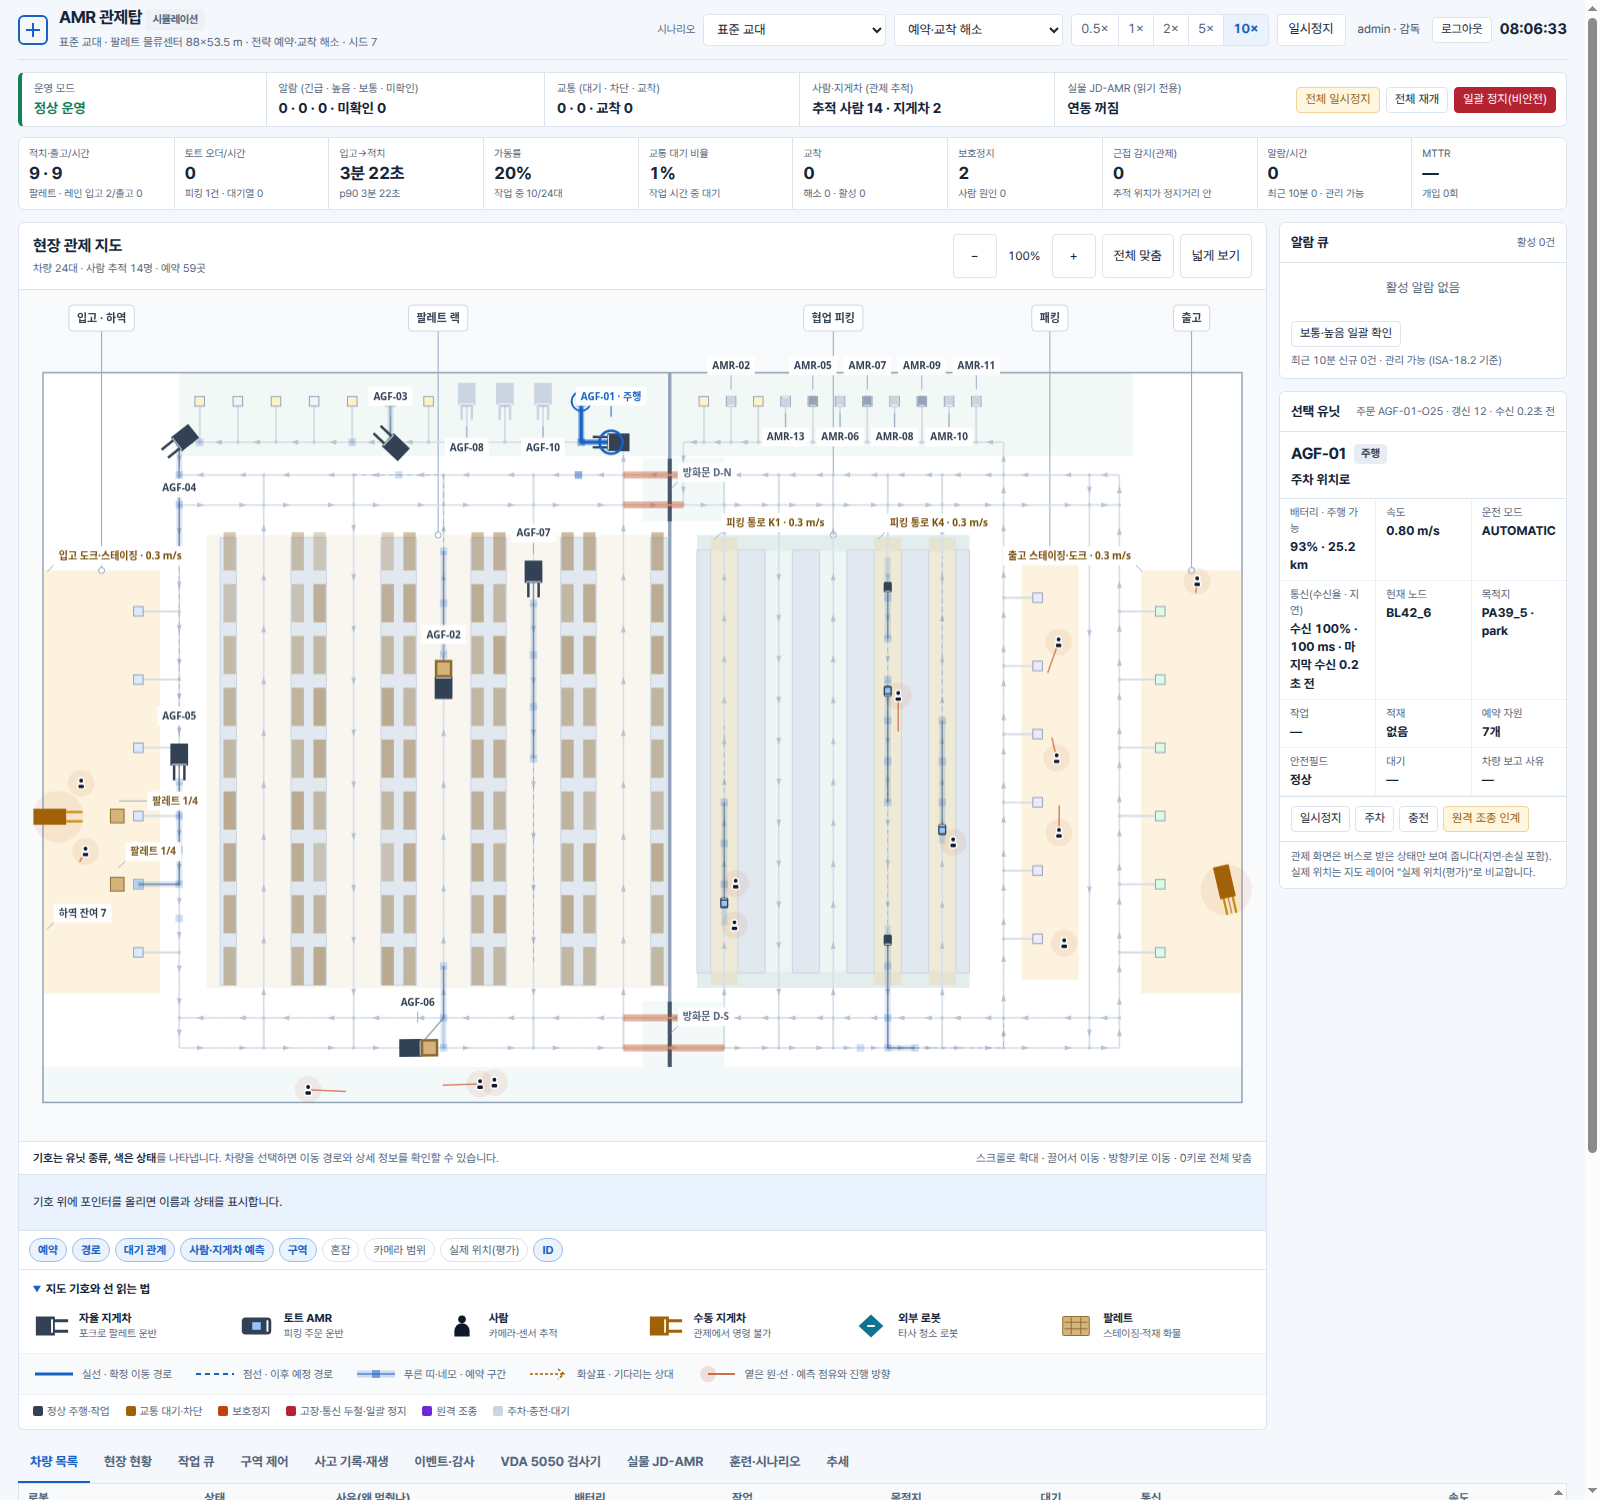
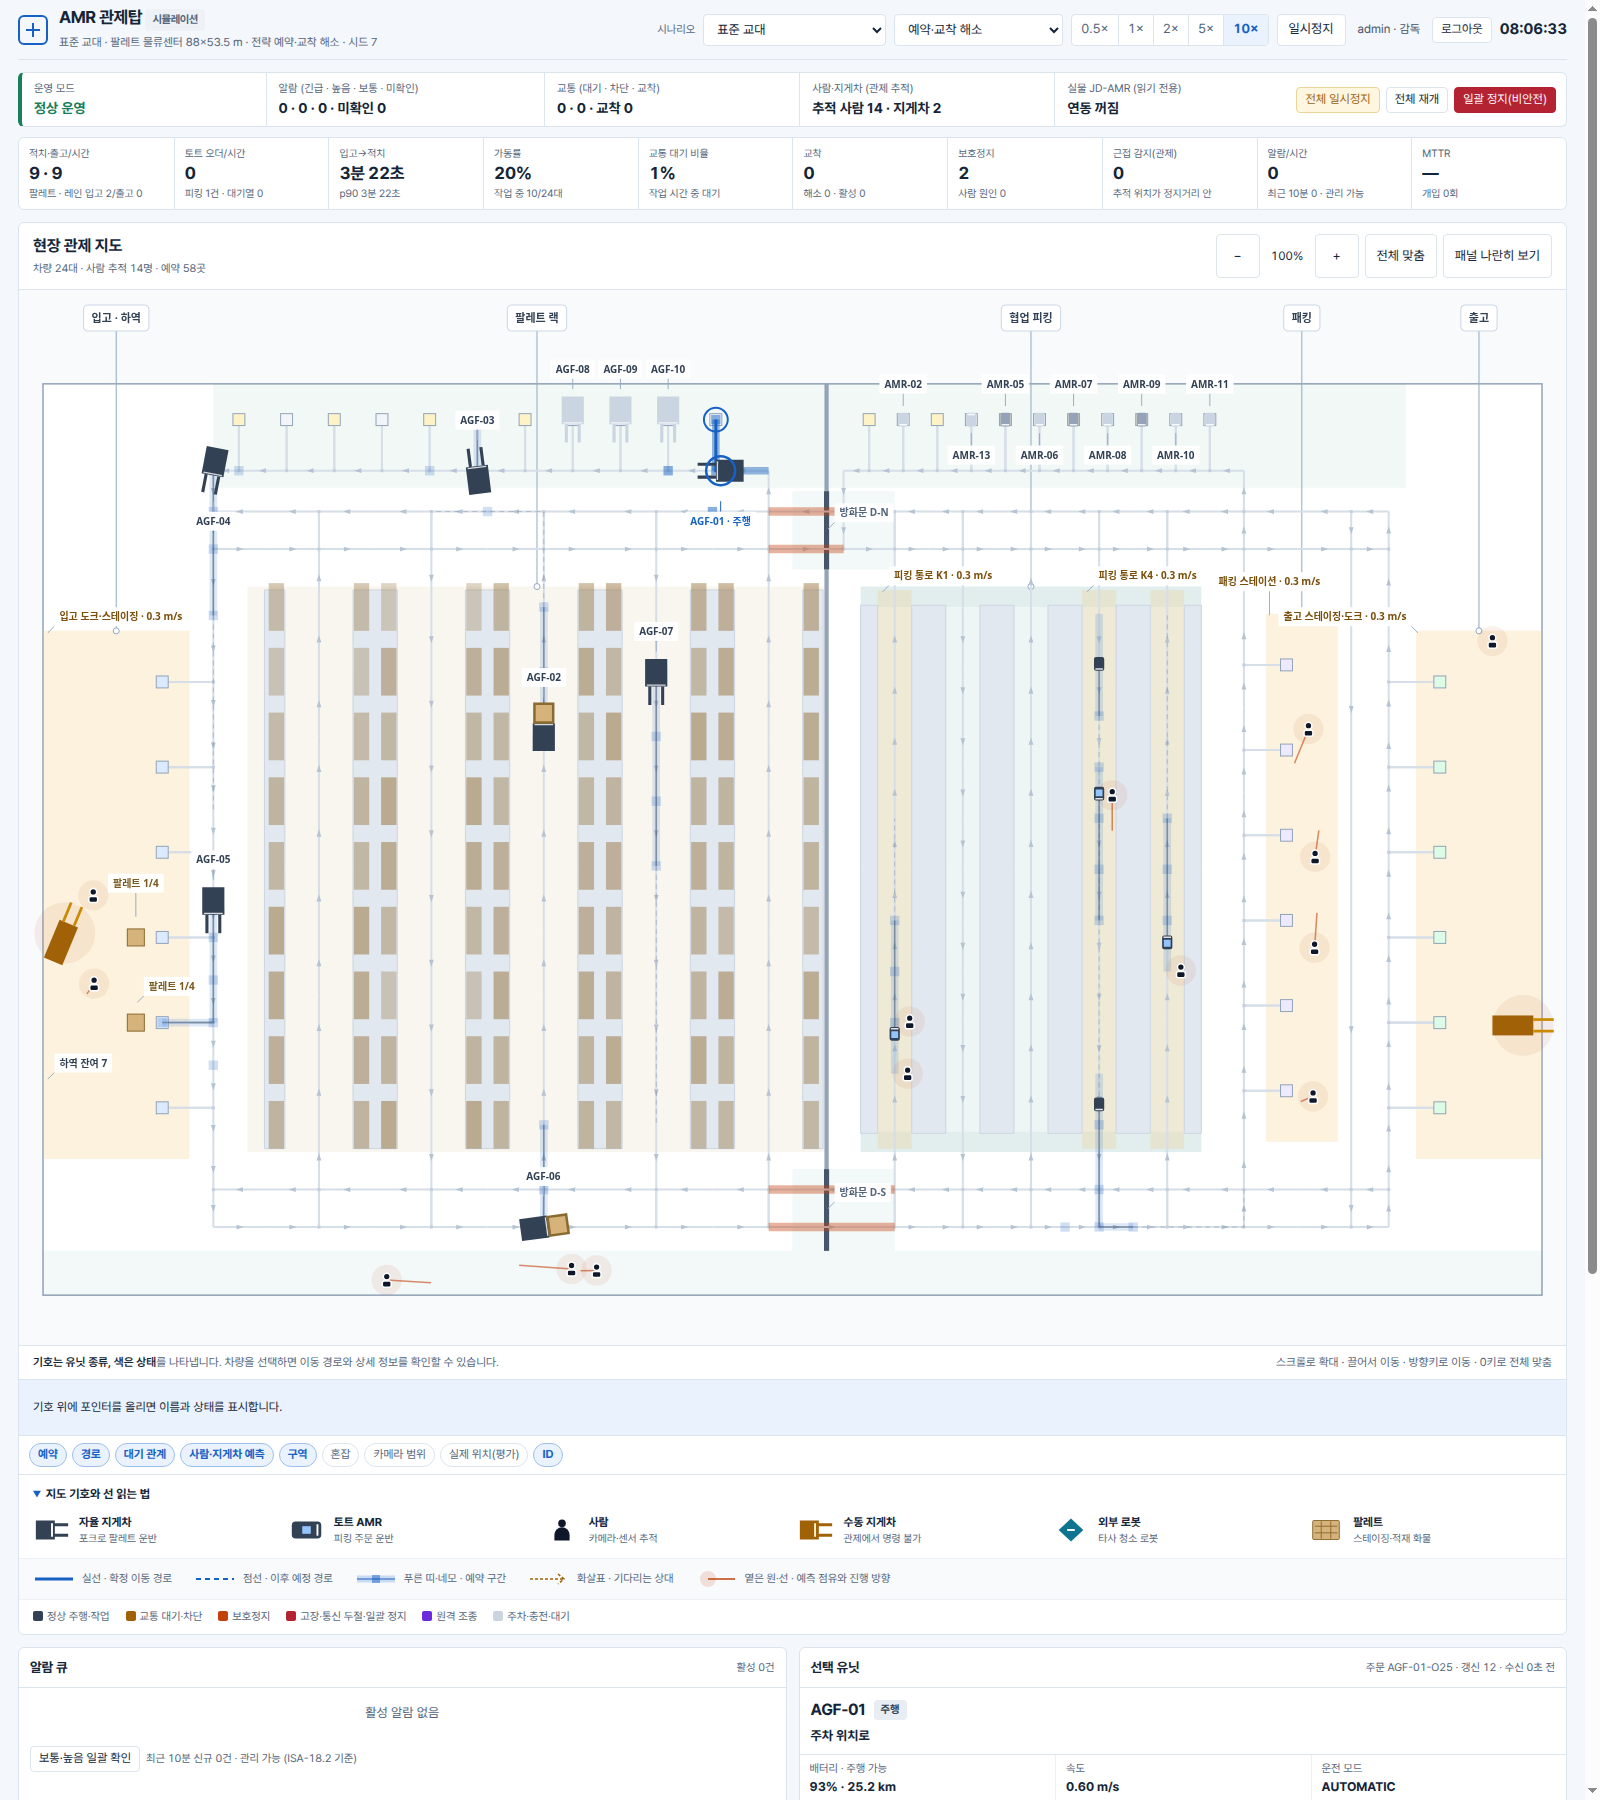
feat(ui): 넓게 보기를 기본 화면으로 설정

diff --git a/web/index.html b/web/index.html
@@ -205,7 +205,7 @@ pre.json{margin:0;padding:10px 11px;font-size:11px;line-height:1.4;max-height:42
 
   <section class="kpis" id="kpis" aria-label="핵심 지표"></section>
 
-  <main class="work">
+  <main class="work map-wide">
     <article class="panel" id="map-panel">
       <div class="phead map-head">
         <div><h2>현장 관제 지도</h2><span class="meta" id="map-meta">차량과 현장 정보를 불러오는 중</span></div>
@@ -214,7 +214,7 @@ pre.json{margin:0;padding:10px 11px;font-size:11px;line-height:1.4;max-height:42
           <output id="map-zoom" aria-label="지도 배율">100%</output>
           <button class="btn" id="map-zoom-in" type="button" aria-label="지도 확대">+</button>
           <button class="btn" id="map-fit" type="button">전체 맞춤</button>
-          <button class="btn" id="map-wide" type="button" aria-expanded="false">넓게 보기</button>
+          <button class="btn" id="map-wide" type="button" aria-expanded="true">패널 나란히 보기</button>
         </div>
       </div>
       <div class="map-wrap" id="map-wrap"><canvas id="map" tabindex="0" aria-label="창고 지도: 차량과 사람의 현재 위치" aria-describedby="map-help"></canvas></div>

diff --git a/README.md b/README.md
@@ -67,7 +67,7 @@ python3 -m fleet.server --scenario standard --speed 5
 
 로그인 없이 화면만 확인할 때는 개발용 `--no-auth`를 씁니다. 루프백 주소에서만 허용됩니다. MQTT 브로커에 실운영 서비스와 차량 시뮬레이터를 연결하는 방법은 [docs/INTEGRATION.md](docs/INTEGRATION.md)에 있습니다.
 
-지도는 확대·축소와 전체 맞춤을 지원하며, 넓은 화면에서는 **넓게 보기**로 보조 패널을 아래로 옮길 수 있습니다. 차량 종류는 그림 기호, 상태는 색, 이동 경로·예약·대기 관계는 선으로 구분합니다. 구역 이름은 지도 위쪽 연결선으로 표시하고, 유닛 이름과 연결선은 다른 기호·랙·글자를 피할 자리가 있을 때 표시합니다. 지도 아래의 **지도 기호와 선 읽는 법**에서 뜻을 확인할 수 있습니다.
+지도는 **넓게 보기**가 기본이며, 보조 패널은 지도 아래에 표시합니다. 넓은 화면에서 **패널 나란히 보기**를 누르면 보조 패널을 지도 옆으로 옮길 수 있습니다. 확대·축소와 전체 맞춤도 지원합니다. 차량 종류는 그림 기호, 상태는 색, 이동 경로·예약·대기 관계는 선으로 구분합니다. 구역 이름은 지도 위쪽 연결선으로 표시하고, 유닛 이름과 연결선은 다른 기호·랙·글자를 피할 자리가 있을 때 표시합니다. 지도 아래의 **지도 기호와 선 읽는 법**에서 뜻을 확인할 수 있습니다.
 
 ```bash
 cd ~/fleet-control-tower
